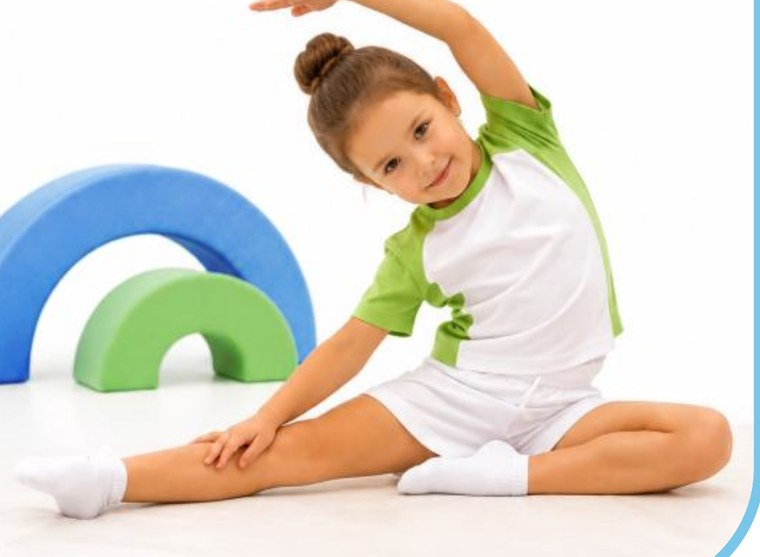
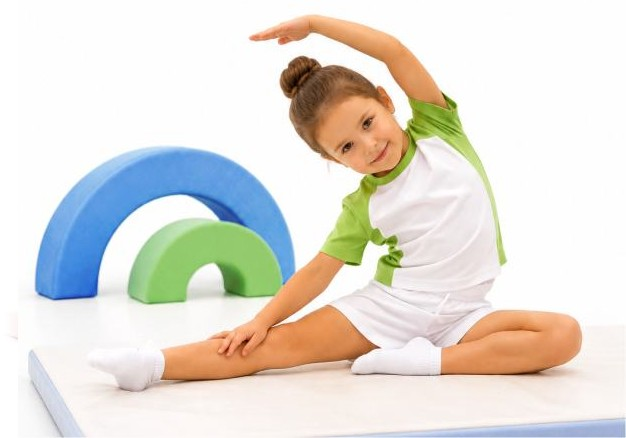
Update program cards: new images, taller/narrower, matched text layout
- Replace card photos with the full scenes from the design; card 4 now uses
  the rings-boy image
- Make cards taller and narrower (3.7 per view); fixed-height cover framing
  per card so the images sit like the screenshot
- Force title/description line breaks to match the screenshot's wording per line
- Fix carousel perView (floor) so the next arrow scrolls to card 4

Claude-Session: https://claude.ai/code/session_01AYj9tbjj1WconamADHn7BC

diff --git a/index.html b/index.html
@@ -96,26 +96,26 @@
             <article class="prog-card pc-coral">
               <span class="pc-age">1,5-3 года</span>
               <h3 class="pc-title">Мягкий старт</h3>
-              <p class="pc-desc">Первые упражнения через игру и движение рядом с родителем.</p>
+              <p class="pc-desc">Первые упражнения<br />через игру и движение<br />рядом с родителем.</p>
               <div class="pc-photo"><img src="assets/img/prog-1.jpg" alt="Мягкий старт — занятие с малышом" loading="lazy" /></div>
             </article>
             <article class="prog-card pc-green">
               <span class="pc-age">3–4 года</span>
-              <h3 class="pc-title">Самостоятельные шаги</h3>
-              <p class="pc-desc">Учимся заниматься с тренером, слушать команды и двигаться увереннее</p>
+              <h3 class="pc-title">Самостоятельные<br />шаги</h3>
+              <p class="pc-desc">Учимся заниматься с<br />тренером, слушать команды<br />и двигаться увереннее</p>
               <div class="pc-photo"><img src="assets/img/prog-2.jpg" alt="Самостоятельные шаги — ребёнок на бревне" loading="lazy" /></div>
             </article>
             <article class="prog-card pc-blue">
               <span class="pc-age">5–7 лет</span>
-              <h3 class="pc-title">Координация и гибкость</h3>
-              <p class="pc-desc">Развиваем пластику, баланс и уверенность в базовых упражнениях.</p>
+              <h3 class="pc-title">Координация<br />и гибкость</h3>
+              <p class="pc-desc">Развиваем пластику,<br />баланс и уверенность в<br />базовых упражнениях.</p>
               <div class="pc-photo"><img src="assets/img/prog-3.jpg" alt="Координация и гибкость — растяжка" loading="lazy" /></div>
             </article>
             <article class="prog-card pc-yellow" id="prog-card-4">
               <span class="pc-age">7–10 лет</span>
               <h3 class="pc-title">Сила и техника</h3>
-              <p class="pc-desc">Укрепляем тело, учим контролю движений и гимнастическим элементам.</p>
-              <div class="pc-photo"><img src="assets/img/prog-4.jpg" alt="Сила и техника — прыжок" loading="lazy" /></div>
+              <p class="pc-desc">Укрепляем тело,<br />учим контролю движений<br />и гимнастическим элементам.</p>
+              <div class="pc-photo"><img src="assets/img/prog-4.jpg" alt="Сила и техника — кольца" loading="lazy" /></div>
             </article>
           </div>
         </div>

diff --git a/styles.css b/styles.css
@@ -152,7 +152,7 @@ a { text-decoration: none; color: inherit; }
 .carousel { position: relative; padding: 0 8px; }
 .car-viewport { overflow: hidden; min-width: 0; }
 .car-track { display: flex; gap: 24px; transition: transform .5s var(--ease); will-change: transform; align-items: stretch; }
-.car-track > * { flex: 0 0 calc((100% - 48px) / 3.3); }
+.car-track > * { flex: 0 0 calc((100% - 60px) / 3.7); }
 
 .car-arrow {
   position: absolute; top: 50%; transform: translateY(-50%); z-index: 5;
@@ -180,7 +180,11 @@ a { text-decoration: none; color: inherit; }
 .pc-title { font-size: clamp(18px, 1.5vw, 23px); font-weight: 700; color: var(--green-d); margin-bottom: 14px; line-height: 1.15; }
 .pc-desc { font-size: 15px; color: #6f7378; font-weight: 400; line-height: 1.5; margin-bottom: 26px; }
 .pc-photo { margin: auto -28px 0; }
-.pc-photo img { width: 100%; height: auto; display: block; }
+.pc-photo img { width: 100%; height: clamp(240px, 19vw, 300px); object-fit: cover; object-position: center; display: block; }
+.pc-coral  .pc-photo img { object-position: center 40%; }
+.pc-green  .pc-photo img { object-position: center 30%; }
+.pc-blue   .pc-photo img { object-position: center 35%; }
+.pc-yellow .pc-photo img { object-position: center 62%; }
 
 .pc-coral { border-color: #FF6F5E; }
 .pc-coral .pc-age { color: #FF6F5E; }

diff --git a/script.js b/script.js
@@ -38,7 +38,8 @@
       var style = getComputedStyle(track);
       var gap = parseFloat(style.columnGap || style.gap || '0') || 0;
       var sw = first.getBoundingClientRect().width + gap;
-      return Math.max(1, Math.round(vw / sw));
+      // count fully-visible cards (floor, with a small tolerance for sub-pixel rounding)
+      return Math.max(1, Math.floor((vw + 2) / sw));
     }
 
     function maxIndex() { return Math.max(0, slides.length - perView()); }
